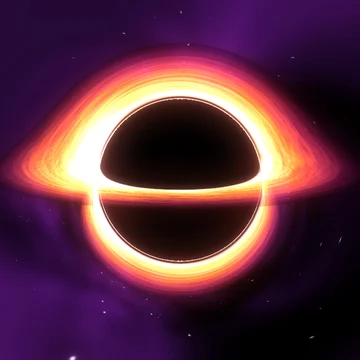
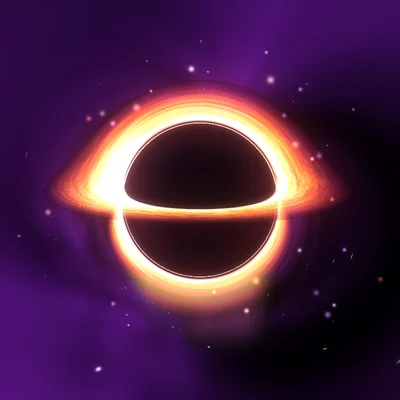
v1.65.0: insignias con íconos propios y nivel 40 renovado
Claude-Session: https://claude.ai/code/session_01SxSLU6wDo1LSzyXoUYuBru

diff --git a/www/index.html b/www/index.html
@@ -714,7 +714,6 @@ mark { background: var(--accent-soft); color: inherit; border-radius: 3px; paddi
 .pf-mini .md { margin: 0 auto 6px; }
 .md { position: relative; width: 56px; height: 56px; display: grid; place-items: center; font-size: 22px; flex: none; }
 .md svg { position: absolute; inset: 0; width: 100%; height: 100%; overflow: visible; fill: none; stroke: none; }
-.md > span { position: relative; z-index: 1; margin-top: 3px; filter: drop-shadow(0 1px 1px rgba(0, 0, 0, 0.35)); }
 .md.gold { filter: drop-shadow(0 5px 8px rgba(229, 168, 36, 0.45)); }
 .md.off { opacity: 0.8; }
 .md.off span { opacity: 0.45; filter: grayscale(1); }
@@ -2212,7 +2211,7 @@ button.mx-rw { cursor: pointer; color: #3a1500; background: linear-gradient(135d
 <script>
 (function () {
   "use strict";
-  var APP_VERSION = "1.64.0";
+  var APP_VERSION = "1.65.0";
   var KEY = "tronx.notes.v2", KEY1 = "tronx.notes.v1", SKEY = "tronx.settings.v2", WKEY = "tronx.welcomed";
 
   var $ = function (id) { return document.getElementById(id); };
@@ -5394,6 +5393,7 @@ button.mx-rw { cursor: pointer; color: #3a1500; background: linear-gradient(135d
   $("settingsClose").addEventListener("click", function () { closeLayer("settings"); });
   $("settings").addEventListener("click", function (e) { if (e.target === $("settings")) closeLayer("settings"); });
   var NEWS = [
+    { v: "1.65.0", d: "16 nov 2026", t: "Insignias con íconos propios y nivel 40 renovado", lv: "Hipernova", cat: "mejora", l: ["Los logros tienen insignias nuevas con un ícono dibujado para cada uno, sin emojis", "Nivel 40, Agujero negro: más equilibrado, centrado y con partículas cósmicas, y una versión pensada para tamaños chicos", "Resplandor exterior del emblema más limpio"] },
     { v: "1.64.0", d: "16 nov 2026", t: "Insignias nuevas y niveles animados", lv: "Hipernova", cat: "mejora", l: ["Insignias de logros rediseñadas: cada categoría tiene su forma y cada nivel su metal (bronce, plata y oro)", "Nivel 40, Agujero negro: nuevo diseño con el disco de gas girando alrededor", "Nivel 50, Singularidad: rayos, destellos y brillo animados, sin el aro exterior", "Las animaciones se detienen con el modo calmo"] },
     { v: "1.63.1", d: "16 nov 2026", t: "Corrección de la foto de perfil en el menú", lv: "Hipernova", cat: "arreglo", l: ["Al usar una foto de perfil, el menú la mostraba a pantalla completa y tapaba las opciones; ahora se ve como avatar circular"] },
     { v: "1.63.0", d: "15 nov 2026", t: "Llega MAX", lv: "Hipernova", cat: "nuevo", nm: "Llega MAX", l: ["MAX: nuevo centro con Inicio, Tienda, Misiones, Niveles y Novedades, accesible desde el menú", "Sistema de niveles por XP (50 niveles, 8 rangos) con insignias hexagonales y pantalla de celebración al subir", "Misiones diarias y semanales, bonus del día y premios por rachas de días seguidos", "Ganás XP al crear notas, escribir, usar el enfoque y desbloquear logros; también estrellas ⭐", "La Tienda de MAX está en desarrollo"] },
@@ -6133,7 +6133,39 @@ button.mx-rw { cursor: pointer; color: #3a1500; background: linear-gradient(135d
     if (cat === "Seguridad") return '<path d="M50 ' + (50 - r) + " L" + (50 + r * 0.86) + " " + (50 - r * 0.62) + " V" + (50 + r * 0.1) + " C" + (50 + r * 0.86) + " " + (50 + r * 0.62) + " 50 " + (50 + r) + " 50 " + (50 + r) + " C50 " + (50 + r) + " " + (50 - r * 0.86) + " " + (50 + r * 0.62) + " " + (50 - r * 0.86) + " " + (50 + r * 0.1) + " V" + (50 - r * 0.62) + 'Z"' + at + "/>";
     return '<rect x="' + (50 - r * 0.86) + '" y="' + (50 - r * 0.86) + '" width="' + (r * 1.72) + '" height="' + (r * 1.72) + '" rx="' + (r * 0.3) + '" transform="rotate(45 50 50)"' + at + "/>";
   }
-  function medalSvg(cat, tier, on) {
+  var GL={
+  n1:["M7 3h8l4 4v14H7z","M15 3v4h4","M10 13h6","M10 17h4"],
+  n10:["M9 8h10v13H9z","M5 4h10v2","M5 4v13h2","M12 12h4","M12 16h4"],
+  n50:["M4 17l8-4 8 4-8 4z","M4 12l8-4 8 4","M4 7l8-4 8 4-8 4z"],
+  n100:["M8 4h8v5a4 4 0 01-8 0z","M8 6H5v2a3 3 0 003 3","M16 6h3v2a3 3 0 01-3 3","M12 13v4","M8 20h8","M10 17h4"],
+  l1:["M4 7l2 2 3-3","M12 7h8","M4 15l2 2 3-3","M12 15h8"],
+  t5:["M3 12V4h8l9 9-8 8z","M7.5 8.5h.01"],
+  c1:["M5 17l5-8 5 5 4-9","M5 17h.01","M10 9h.01","M15 14h.01","M19 5h.01"],
+  v5:["M10 14a4 4 0 010-6l2-2a4 4 0 016 6l-1 1","M14 10a4 4 0 010 6l-2 2a4 4 0 01-6-6l1-1"],
+  w1k:["M4 20l1-4L16 5l3 3L8 19z","M14 7l3 3"],
+  w10k:["M3 6c3-1 6-1 9 1 3-2 6-2 9-1v13c-3-1-6-1-9 1-3-2-6-2-9-1z","M12 7v13"],
+  w50k:["M20 4C10 4 6 10 6 16l-2 4 4-2c6 0 12-4 12-14z","M8 16l8-8"],
+  s3:["M12 3c1 4 5 5 5 10a5 5 0 01-10 0c0-2 1-3 2-4 0 2 1 3 2 3 0-3-1-5 1-9z"],
+  s7:["M4 6h16v14H4z","M4 10h16","M8 3v4","M16 3v4","M8 14l2 2 4-4"],
+  s30:["M4 6h16v14H4z","M4 10h16","M8 3v4","M16 3v4","M12 12.5l1 2 2.2.3-1.6 1.5.4 2.2-2-1.1-2 1.1.4-2.2-1.6-1.5 2.2-.3z"],
+  bk:["M12 3l8 3v6c0 5-4 8-8 9-4-1-8-4-8-9V6z","M9 12l2 2 4-4"],
+  lk:["M6 11h12v10H6z","M8 11V8a4 4 0 018 0v3","M12 15v3"],
+  f1:["M12 3a9 9 0 100 18 9 9 0 000-18z","M12 8a4 4 0 100 8 4 4 0 000-8z","M12 12h.01"],
+  f60:["M12 5a8 8 0 100 16 8 8 0 000-16z","M12 9v4l3 2","M10 2h4"],
+  f600:["M12 20c-4 0-7-3-8-7 3 0 5 1 8 4 3-3 5-4 8-4-1 4-4 7-8 7z","M12 17c-3-2-3-8 0-12 3 4 3 10 0 12z"],
+  d10:["M4 4h16v16H4z","M8 12l3 3 5-6"],
+  d100:["M13 2L5 14h6l-1 8 8-12h-6z"],
+  im5:["M4 8h4l2-3h4l2 3h4v11H4z","M12 11a3.5 3.5 0 100 7 3.5 3.5 0 000-7z"],
+  fo3:["M3 6h7l2 2h9v11H3z","M3 11h18"],
+  ar1:["M3 5h18v4H3z","M5 9v11h14V9","M10 13h4"],
+  rm1:["M12 6a7 7 0 100 14 7 7 0 000-14z","M12 10v4l2 1","M4 7l3-3","M20 7l-3-3"],
+  sk1:["M12 3a9 9 0 000 18c1 0 2-1 1-2-1-2 0-3 2-3h3a3 3 0 003-3c0-5-4-10-9-10z","M7.5 11h.01","M10 7.5h.01","M15 7.5h.01"]
+  };
+  function glyph(id,c,on){var g=GL[id]||[];var dark=on?c[2]:'#15172e',lite=on?c[3]:'#7f84ad',s='<g transform="translate(27 27) scale(1.9)" fill="none" stroke-linecap="round" stroke-linejoin="round">';
+   g=g.map(function(d){var m=/^M([\d.]+) ([\d.]+)h\.01$/.exec(d);return m?'M'+(+m[1]-1.3)+' '+m[2]+'a1.3 1.3 0 102.6 0a1.3 1.3 0 10-2.6 0':d});
+   g.forEach(function(d){s+='<path d="'+d+'" stroke="'+dark+'" stroke-width="3.6" opacity=".9"/>'});
+   g.forEach(function(d){s+='<path d="'+d+'" stroke="'+lite+'" stroke-width="1.7"/>'});return s+'</g>'}
+  function medalSvg(cat, tier, on, id0) {
     var id = "md" + (++mdN), c = MD_PAL[on ? tier : 0], s = "";
     s += '<defs><linearGradient id="' + id + 'a" x1="0" y1="0" x2="1" y2="1"><stop offset="0" stop-color="' + c[0] + '"/><stop offset=".5" stop-color="' + c[1] + '"/><stop offset="1" stop-color="' + c[2] + '"/></linearGradient><linearGradient id="' + id + 'i" x1="0" y1="0" x2="0" y2="1"><stop offset="0" stop-color="' + c[2] + '" stop-opacity=".9"/><stop offset="1" stop-color="' + c[1] + '" stop-opacity=".9"/></linearGradient><linearGradient id="' + id + 's" x1="0" y1="0" x2="0" y2="1"><stop offset="0" stop-color="#fff" stop-opacity=".55"/><stop offset="1" stop-color="#fff" stop-opacity="0"/></linearGradient></defs>';
     if (on && tier === 3) s += '<circle cx="50" cy="50" r="49" fill="' + c[1] + '" opacity=".25"/>';
@@ -6142,10 +6174,11 @@ button.mx-rw { cursor: pointer; color: #3a1500; background: linear-gradient(135d
     s += '<path d="M20 38 Q50 12 80 38 Q50 30 20 38Z" fill="url(#' + id + 's)" opacity=".8"/>';
     if (on && tier >= 2) s += '<circle cx="50" cy="12" r="2.6" fill="' + c[3] + '"/>';
     if (on && tier === 3) s += '<path d="M50 3 l2.2 5 5.3.5-4 3.6 1.2 5.2-4.7-2.8-4.7 2.8 1.2-5.2-4-3.6 5.3-.5z" fill="#fff6c9" stroke="#8a5a00" stroke-width="1" transform="translate(5 -2) scale(.9)"/>';
+    if (id0) s += glyph(id0, c, on);
     return '<svg viewBox="-2 -4 104 106" aria-hidden="true">' + s + "</svg>";
   }
   function medal(a, on) {
-    var m = el("div", "md " + (on ? TIER_CLS[a.tier] : "off")), s = el("span"); s.textContent = a.e; m.innerHTML = medalSvg(a.c, a.tier, on); m.appendChild(s); m.setAttribute("aria-hidden", "true"); return m;
+    var m = el("div", "md " + (on ? TIER_CLS[a.tier] : "off")); m.innerHTML = medalSvg(a.c, a.tier, on, a.id); m.setAttribute("aria-hidden", "true"); return m;
   }
   function fmtN(n) { return Number(n).toLocaleString("es"); }
   function renderAch() {
@@ -6388,13 +6421,15 @@ button.mx-rw { cursor: pointer; color: #3a1500; background: linear-gradient(135d
   }
   var embN = 0;
   function bhEmblem(n, size, anim) {
-    var id = "bhe" + (++embN), s = "", i, hp = function (r) { var p = []; for (var k = 0; k < 6; k++) { var a = (-90 + k * 60) * Math.PI / 180; p.push((100 + r * Math.cos(a)).toFixed(1) + "," + (100 + r * Math.sin(a)).toFixed(1)); } return p.join(" "); };
-    s += '<defs><clipPath id="' + id + 'k"><polygon points="' + hp(82) + '"/></clipPath><filter id="' + id + 'g"><feGaussianBlur stdDeviation="6"/></filter><linearGradient id="' + id + 'f" x1="0" y1="0" x2="1" y2="1"><stop offset="0" stop-color="#f0abfc"/><stop offset=".5" stop-color="#a21caf"/><stop offset="1" stop-color="#3b0764"/></linearGradient></defs>';
-    s += '<circle cx="100" cy="100" r="99" fill="#d946ef" opacity=".35" filter="url(#' + id + 'g)">' + (anim ? '<animate attributeName="opacity" values=".25;.5;.25" dur="4s" repeatCount="indefinite"/>' : "") + "</circle>";
+    var small = !anim && size <= 90, id = "bhe" + (++embN), s = "", i, hp = function (r) { var p = []; for (var k = 0; k < 6; k++) { var a = (-90 + k * 60) * Math.PI / 180; p.push((100 + r * Math.cos(a)).toFixed(1) + "," + (100 + r * Math.sin(a)).toFixed(1)); } return p.join(" "); };
+    s += '<defs><clipPath id="' + id + 'k"><polygon points="' + hp(82) + '"/></clipPath><filter id="' + id + 'g"><feGaussianBlur stdDeviation="4.5"/></filter><linearGradient id="' + id + 'f" x1="0" y1="0" x2="1" y2="1"><stop offset="0" stop-color="#f0abfc"/><stop offset=".5" stop-color="#a21caf"/><stop offset="1" stop-color="#3b0764"/></linearGradient></defs>';
+    s += '<circle cx="100" cy="100" r="99" fill="#d946ef" opacity=".24" filter="url(#' + id + 'g)">' + (anim ? '<animate attributeName="opacity" values=".25;.5;.25" dur="4s" repeatCount="indefinite"/>' : "") + "</circle>";
     s += '<polygon points="' + hp(92) + '" fill="url(#' + id + 'f)" stroke="#3a1408" stroke-width="3"/><polygon points="' + hp(83) + '" fill="#000"/><g clip-path="url(#' + id + 'k)">';
-    for (i = 0; i < (anim ? 12 : 1); i++) s += '<image class="bhf"' + (anim ? ' data-a="1"' : "") + ' href="bh/f' + (i < 10 ? "0" : "") + i + '.webp" x="14" y="16" width="172" height="172" opacity="' + (i ? 0 : 1) + '"/>';
+    for (i = 0; i < (anim ? 12 : 1); i++) s += '<image class="bhf"' + (anim ? ' data-a="1"' : "") + ' href="' + (small ? "bh/small.webp" : "bh/f" + (i < 10 ? "0" : "") + i + ".webp") + '" x="14" y="14" width="172" height="172" opacity="' + (i ? 0 : 1) + '"/>';
     s += '</g><polygon points="' + hp(83) + '" fill="none" stroke="#ffe2c4" stroke-opacity=".6" stroke-width="2"/>';
-    s += '<rect x="64" y="152" width="72" height="24" rx="12" fill="#000" fill-opacity=".75" stroke="#ffb482" stroke-opacity=".8"/><text x="100" y="170" text-anchor="middle" font-weight="900" font-size="19" fill="#fff" font-family="Inter,system-ui,sans-serif">' + (n | 0) + "</text>";
+    if (size <= 56) s += '<rect x="48" y="142" width="104" height="40" rx="20" fill="#000" fill-opacity=".78" stroke="#ffb482" stroke-opacity=".8"/><text x="100" y="172" text-anchor="middle" font-weight="900" font-size="32" fill="#fff" stroke="#000" stroke-width="3" paint-order="stroke" font-family="Inter,system-ui,sans-serif">' + (n | 0) + "</text>";
+    else if (small) s += '<rect x="54" y="146" width="92" height="32" rx="16" fill="#000" fill-opacity=".78" stroke="#ffb482" stroke-opacity=".8"/><text x="100" y="170" text-anchor="middle" font-weight="900" font-size="26" fill="#fff" stroke="#000" stroke-width="3" paint-order="stroke" font-family="Inter,system-ui,sans-serif">' + (n | 0) + "</text>";
+    else s += '<rect x="64" y="152" width="72" height="24" rx="12" fill="#000" fill-opacity=".75" stroke="#ffb482" stroke-opacity=".8"/><text x="100" y="170" text-anchor="middle" font-weight="900" font-size="19" fill="#fff" font-family="Inter,system-ui,sans-serif">' + (n | 0) + "</text>";
     return '<svg viewBox="-6 -4 212 204" width="' + size + '" height="' + Math.round(size * 0.962) + '" aria-hidden="true" style="overflow:visible">' + s + "</svg>";
   }
   var bhRaf = 0, bhT0 = 0;

diff --git a/README.md b/README.md
@@ -230,6 +230,7 @@ Pasos, una sola vez:
 **1.61.6**: Esta actualización corrige el botón de buscar notas duplicadas y el marcador del día actual en el mapa de actividad.
 **1.62.6**: Esta actualización renueva el perfil con foto, portada y frase, y suma una Sala de logros con medallas, categorías y progreso.
 
+**1.65.0**: Insignias de logros con íconos propios y nivel 40 renovado.
 **1.64.0**: Insignias de logros rediseñadas, y los niveles 40 y 50 con animación.
 **1.63.1**: Esta actualización corrige la foto de perfil, que se veía gigante en el menú.
 **1.63.0**: Llega MAX, un centro con niveles por XP, misiones diarias y semanales, rachas y estrellas; la Tienda está en desarrollo.
